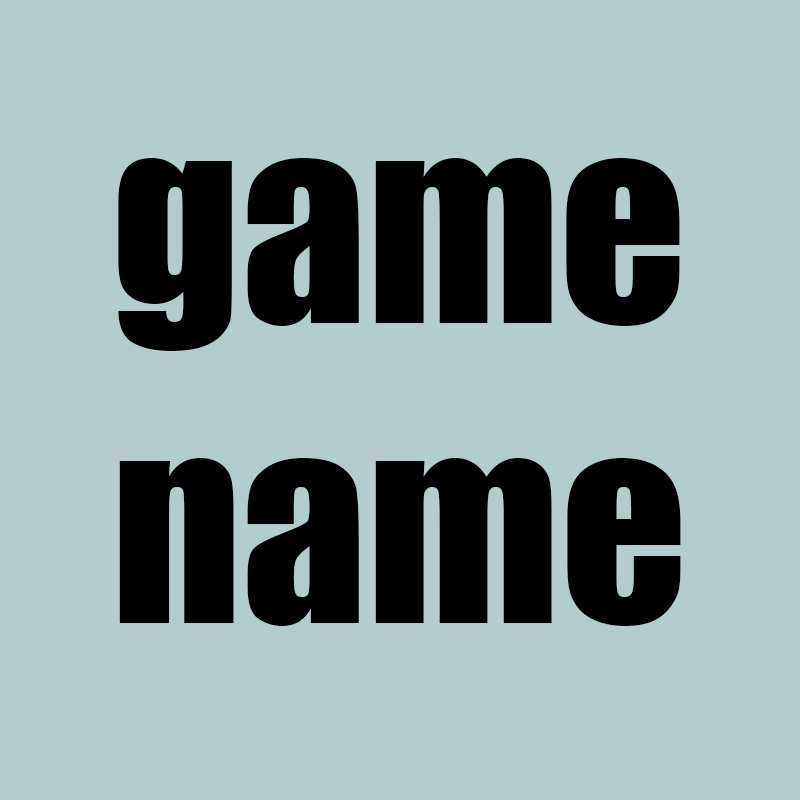
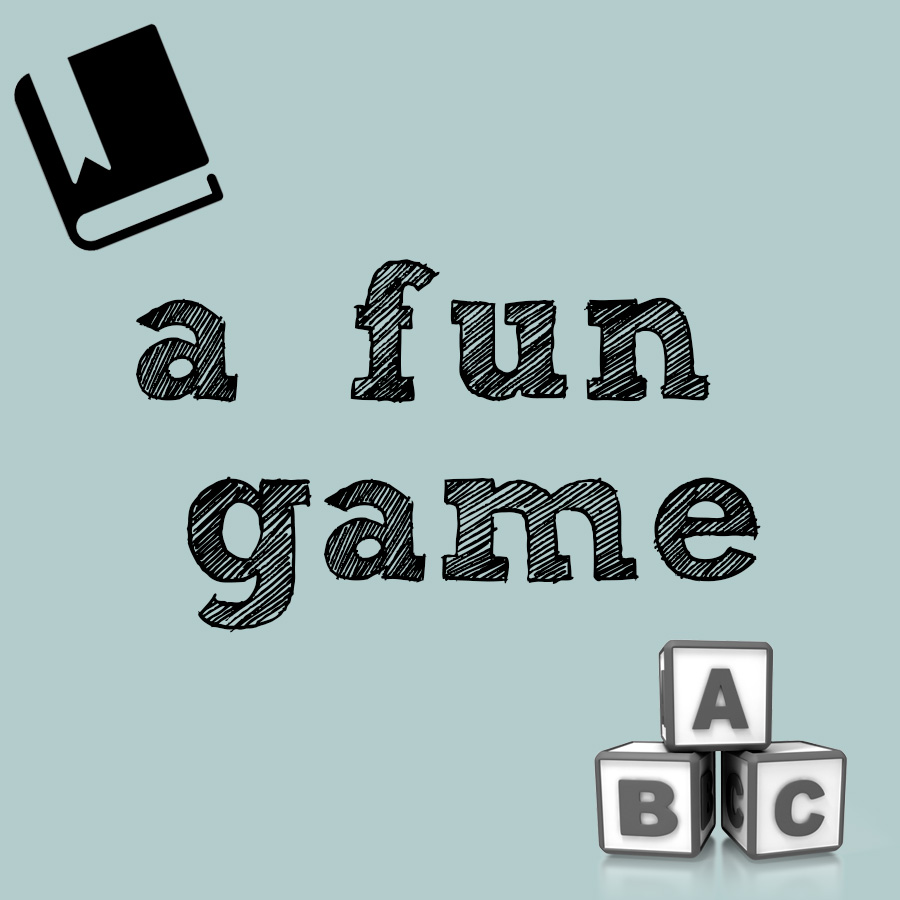
last

diff --git a/finalgame2.py b/finalgame2.py
@@ -9,6 +9,7 @@ import imutils
 from collections import deque 
 import string
 import random
+from wikipedia_api_modified import *
 
 #####################################
 #         MISC FUNCTIONS            #
@@ -43,6 +44,23 @@ def init(data):
     data.imageList = ["wordcat.jpg", "heart.jpg", "bird.jpg", "stones.jpg", "sloth.jpg"]
     data.index = 0
     bubbleinit(data)
+    data.isHomeScreen=True
+    data.isGameOverLose = False
+    data.isGameOverWin = False
+    data.isGameScreen=False 
+    data.isHelpScreen=False 
+    data.wasGameScreen,data.wasHelpScreen=False,True
+    data.homeScreenSize=12
+    data.homeMargin,data.margin=30,10
+    data.helpTextX=data.width/2
+    data.helpTextColor="black"
+    data.increment=7
+    data.cellWidth,data.cellHeight=60,60
+    data.currentTime=30
+    data.rectWidth,data.rectHeight=75,20
+    data.rectY=data.height/2+75
+    data.start=True
+    data.options=['New York','Pizza','Gold','Skyscraper','Laptop','Hoodie Allen','Necklace','Chair']
 
 #####################################
 #         MODE DISPATCHER           #
@@ -85,6 +103,7 @@ def splashMousePressed(event, data):
         data.mode = "bubble"
     elif (data.width-400 < x < data.width-50) and (350 < y < 400):
         data.mode = "book"
+        print("mode book")
 
 def splashKeyPressed(event, data):
     pass
@@ -109,7 +128,7 @@ def drawFakeButtons(canvas, data):
 
 def drawAnImage(canvas):
     # how to properly resize?
-    path = 'gamename.jpg'
+    path = 'FUNWITHWORDS.jpg'
     image = Image.open(path)
     imageWidth, imageHeight = image.size
     newImageWidth, newImageHeight = imageWidth//3, imageHeight//3
@@ -277,12 +296,15 @@ def drawBubbleGame(canvas, data):
         drawBubbles(canvas, data, data.bubbleLetters)
         canvas.create_text(970, 400, text = data.word, font = "Ariel 30", 
                             fill = "white")
+        canvas.create_text(500, 50, text = "Click on the right letters to spell he word. Press r to reset the letter placement", font = "Ariel 20")
     if data.bubbleScreen == data.bubbleLost:
         canvas.create_text(200, 100, text = "You Lose :(", font = "Ariel 40 bold")
+        canvas.create_text(500, 350, text = "Click anywere to play again", font = "Ariel 30")
     if data.bubbleScreen == data.bubbleWin:
         canvas.create_text(200, 100, text = "You Win!! :D", 
                             font = "Ariel 40 bold", fill = "lightgreen")
         drawImage(canvas, 'happy.jpg', 2)
+        canvas.create_text(500, 350, text = "Click anywere to play again", font = "Ariel 30")
 
     
 def getLetters(data, word):
@@ -350,16 +372,182 @@ def bookMousePressed(event, data):
     x, y = event.x, event.y
     if (data.width-50 > x > data.width-150) and (data.height-20 > y > data.height- 60):
         data.mode = "splash"
+        # ignore mousePres  sed events
+    if data.isHelpScreen==True:
+        if data.wasGameScreen==False:
+            data.isHelpScreen=False
+            data.isHomeScreen=True
+        else:
+            data.isHelpScreen=False
+            data.isGameScreen=True
+    
+    #click on cell 
+    elif data.isHomeScreen:
+        clickX,clickY=event.x,event.y
+        print("home")
+        ifClicked(data,clickX,clickY)
+    elif data.isGameScreen:
+    
+        clickX,clickY=event.x,event.y
+        ifClicked2(data,clickX,clickY)
+        
 
 def bookKeyPressed(event, data):
-    pass
+    if (event.keysym == 'p'): startGame(data)
+    elif (event.keysym == 'h'): openHelpScreen(data) #add an if to make sure hom
+    elif (event.keysym == 'space'): resetTime(data)
+    elif (event.keysym == 'Tab'): openWinGame(data)
+    
 
 def bookTimerFired(data):
     pass
 
 def bookRedrawAll(canvas, data):
-    drawBackground(canvas, data)
+    #drawBackground(canvas, data)
     drawBackButton(canvas, data)
+    if data.isHomeScreen==True:
+        drawHomePage(canvas,data)
+    elif data.isHelpScreen==True:
+        drawHelpScreen(canvas,data)
+    elif data.isGameScreen==True:
+        drawGame(canvas,data)
+    elif data.isGameOverLose==True:
+        drawGameLose(canvas,data)
+    elif data.isGameOverWin==True:
+        drawGameWin(canvas,data)
+
+def ifClicked2(data,x,y):
+    left,top,right,bot=50,50,150,100
+    if (x>(left) and x<(right)
+    and y>(top) and y<(bot)):
+        data.isHomeScreen=True
+        data.isGameScreen=False
+
+def startGame(data):
+    data.isHomeScreen=False 
+    data.isGameScreen=True 
+    data.wasHomeScreen=False
+
+        
+def openHelpScreen(data):
+    if data.isHomeScreen==True:
+        data.isHomeScreen=False 
+        data.wasHomeScreen=True
+        data.isHelpScreen=True
+    elif data.isGameScreen==True:
+        data.isGameScreen=False 
+        data.isHelpScreen=True
+        data.wasGameScreen=True
+    elif data.isHelpScreen==True:
+        if data.wasGameScreen==True:
+            data.isHelpScreen=False
+            data.isGameScreen=True
+        else:
+            data.isHelpScreen=False
+            data.isHomeScreen=True
+
+def ifClicked(data,x,y):
+    for i in range(len(data.positions)): 
+        position=data.positions[i]
+        print(position,x,y)
+        if (position[0]<x and position[1]>x and position[2]<y and position[3]>y):
+            data.selected=data.options[i]
+            print("intersec")
+            data.isHomeScreen=False
+            data.isGameScreen=True
+    print(data.isHomeScreen)
+
+
+#######################################    
+def drawHomePage(canvas,data):
+    data.text=None
+    data.selected=None
+    canvas.create_text(data.width/2,data.height/2-data.homeMargin, 
+    text="Practice Reading Mode", font="Helvetica %d" % (data.homeScreenSize))
+    canvas.create_text(data.width/2,data.height/2+data.homeMargin, 
+    text="Input the Wikipedia article you want to read!", font="Helvetica 10")
+    #canvas.create_rectangle(data.width/2-data.rectWidth,data.rectY-data.rectHeight,
+    #data.width/2+data.rectWidth,data.rectY+data.rectHeight,fill="pink")
+    #canvas.create_text(data.width/2, data.rectY, text="Input Article")
+    
+    margin=5
+    initialW=400
+    initialH=100
+    top=data.rectY+initialH/3
+    height=initialH/2
+    width=initialW/4
+    i=0
+    data.positions=[]
+    for row in range(2):
+        left=data.width/2-initialW/2
+        for col in range(4):
+           topX,topY=left+margin,top+margin
+           botX,botY=left+width-margin,top+height-margin
+           position=(topX,botX,topY,botY)
+           data.positions.append(position)
+           canvas.create_rectangle(topX,topY,botX,botY, fill="pink")
+           canvas.create_text((topX+botX)/2,(topY+botY)/2,text=data.options[i])
+           left+=width
+           i+=1
+        top+=height
+    data.start=False
+    
+        
+    # book=Entry(canvas)
+    # canvas.create_window(data.width/2, data.height/2+60,window=book)
+    # canvas.update()
+
+    
+def drawHelpScreen(canvas,data):
+    data.helpTextX=data.helpTextX+data.increment 
+    canvas.create_text(data.helpTextX, data.height/2-data.homeMargin, text=
+    "Color in the right bubbles to spell out the word in the picture!", font="Helvetica 11", fill=
+    data.helpTextColor)
+    canvas.create_text(data.width/2,data.height/2+data.homeMargin, text=
+    "Press mouse to return to caller's mode")
+    
+
+
+
+def drawInstructions(canvas,data):
+    canvas.create_text(data.width/2, data.height-data.margin, fill="blue",
+    text="Press 'h' for help! Use Space, Tab, MouseButton + Arrows", 
+    font="Helvetica 6 bold")
+
+def drawImageBook(canvas, width, height,path):
+    image = Image.open(path)
+    imageWidth, imageHeight = image.size
+    newImageWidth, newImageHeight = imageWidth//3, imageHeight//3
+    image = image.resize((newImageWidth, newImageHeight), Image.ANTIALIAS)
+    photo = ImageTk.PhotoImage(image)
+    label = Label(image=photo)
+    label.image = photo # keep a reference!
+    canvas.create_image(newImageWidth//2, newImageHeight//2, image = photo)
+#179,204,204
+def drawGame(canvas,data):
+    #drawImage(canvas,data.width/2,data.height/2,"book2.jpg")
+    left,top,right,bot=50,50,150,100
+    canvas.create_rectangle(left,top,right,bot,fill="#B3CCCC")
+    canvas.create_text((left+right)/2,(top+bot)/2,text="Choose Again")
+    if data.text==None:
+        data.text=getInput(data.selected)
+        data.formatted=formatString(data.text)
+        print(data.formatted)
+    canvas.create_text(data.width/2,data.height/2-50,text=data.formatted,font="Arial 30")
+     #draw book here
+
+def formatString(text):
+    if text != None:
+        j=0
+        newText=""
+        for i in range(len(text)):
+            if j==50:
+                newText+="\n"
+                j=0
+            j+=1
+            newText+=text[i]
+        return newText
+            
 
 
 #####################################
